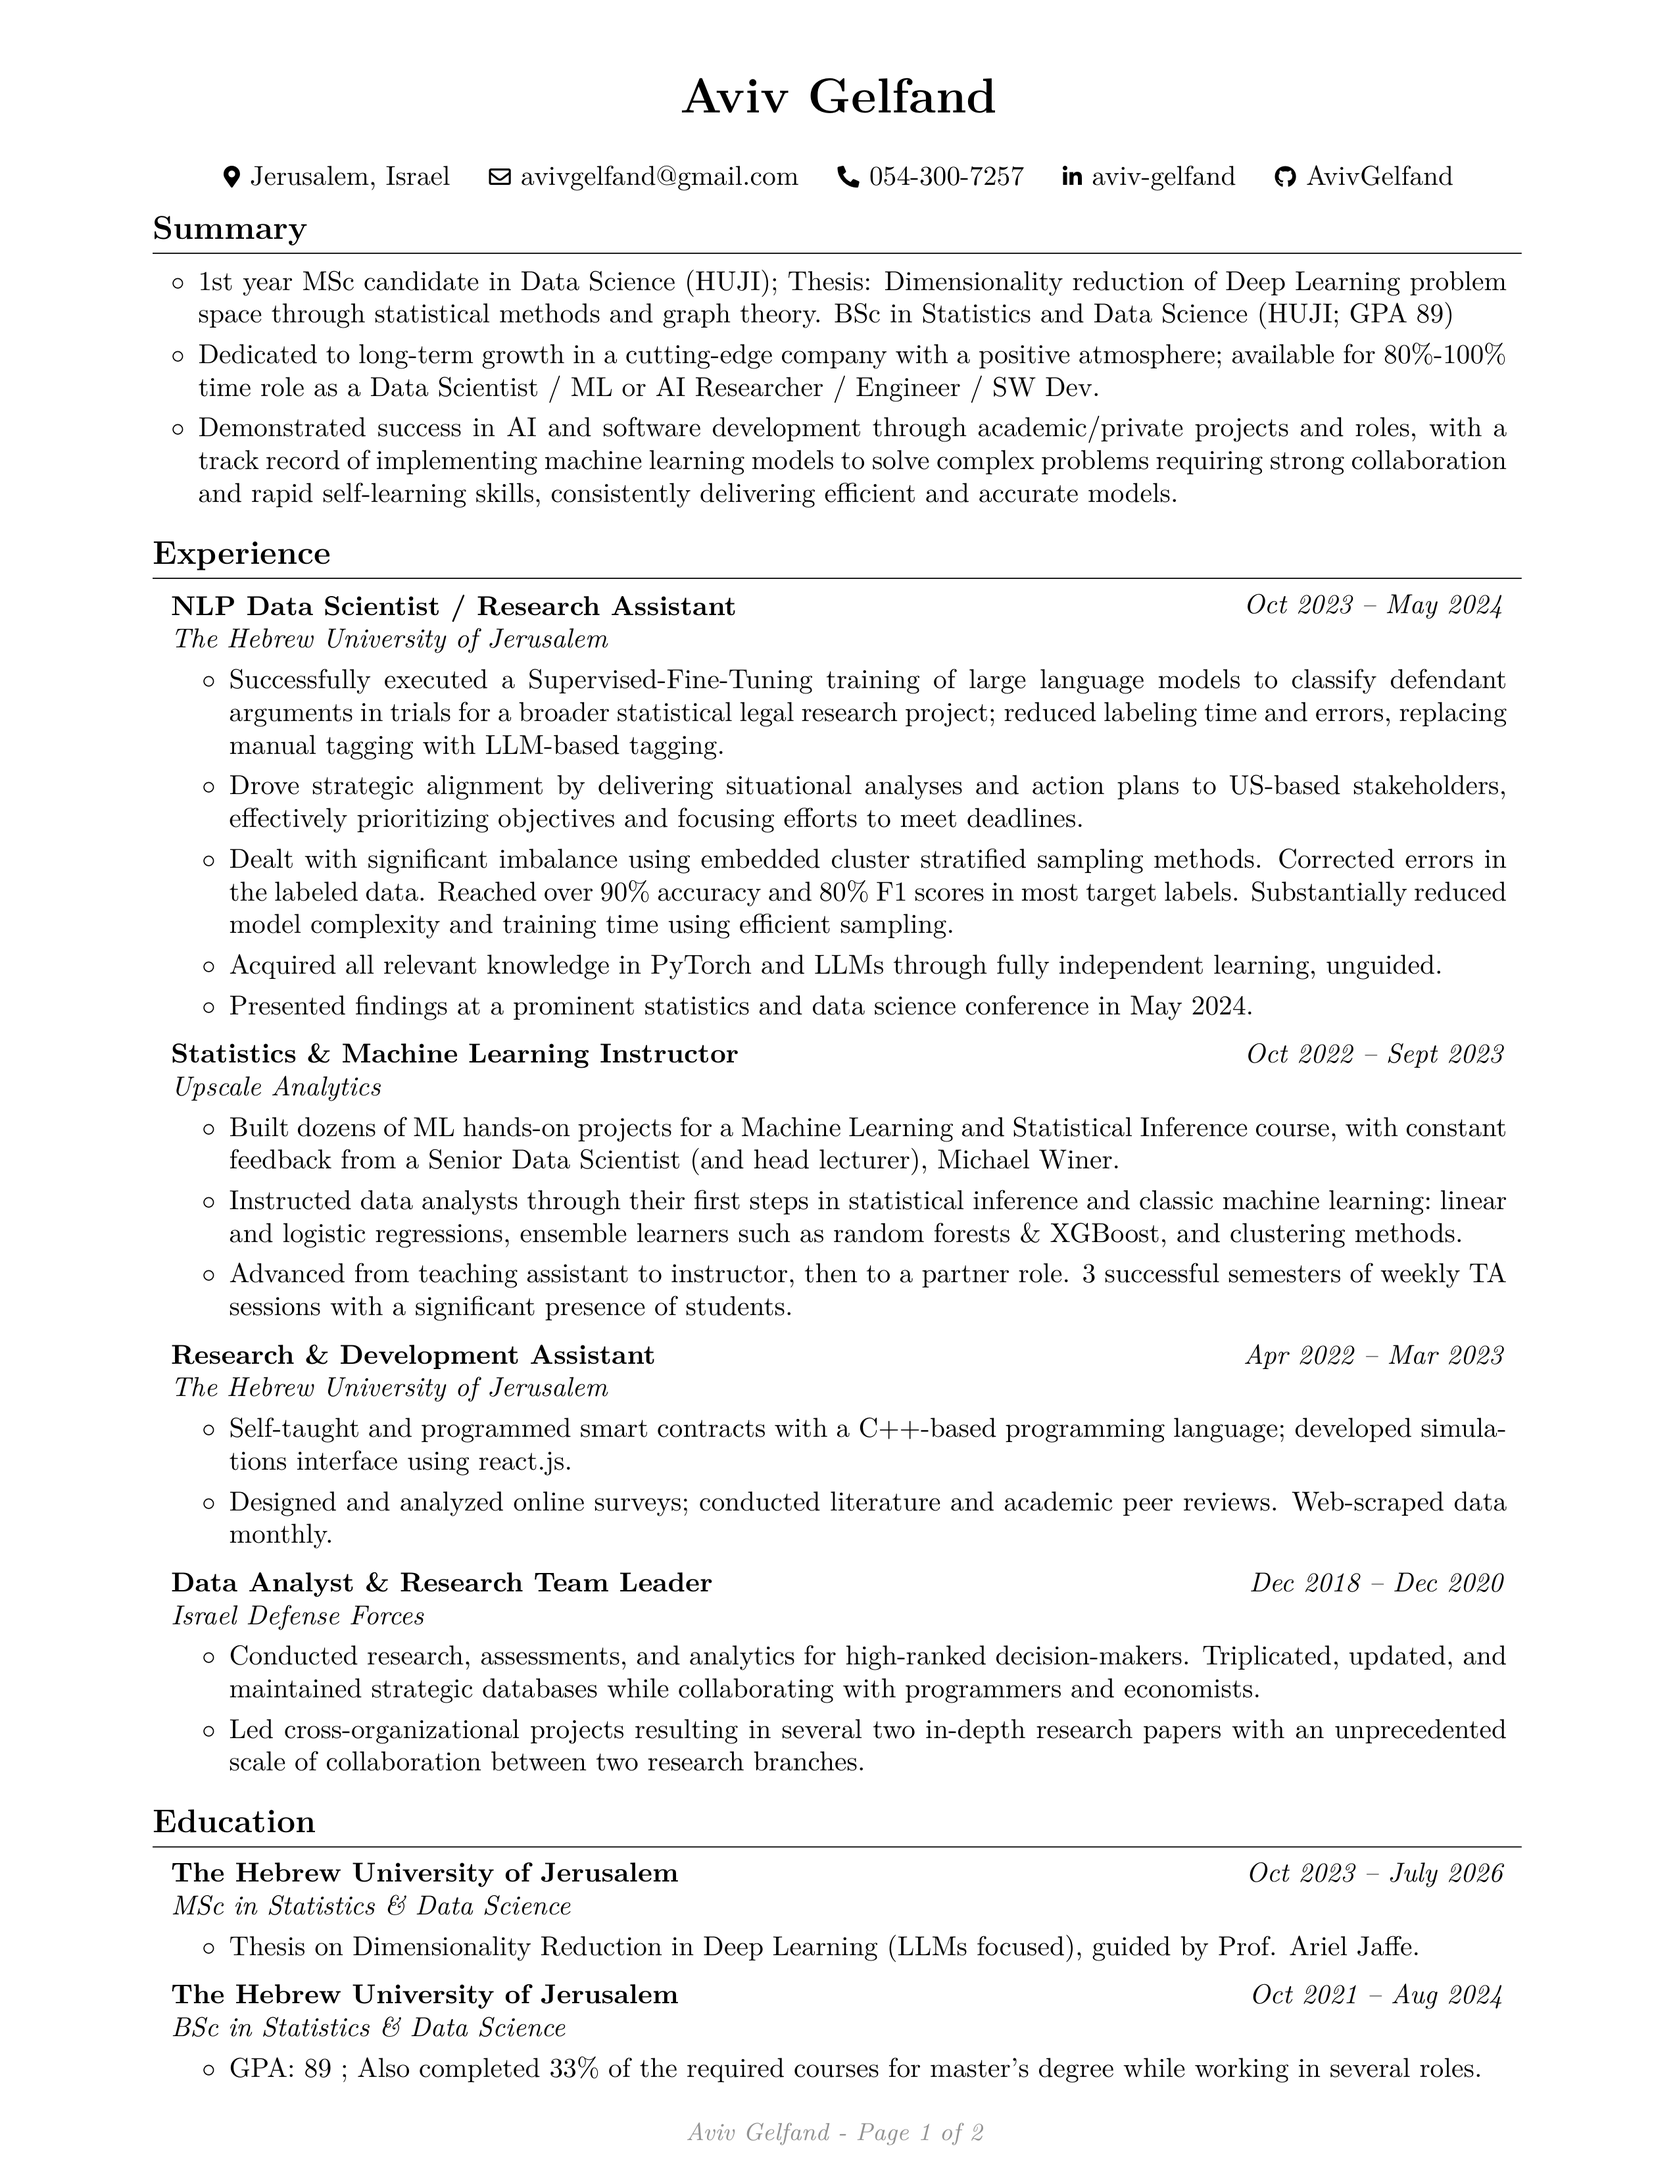
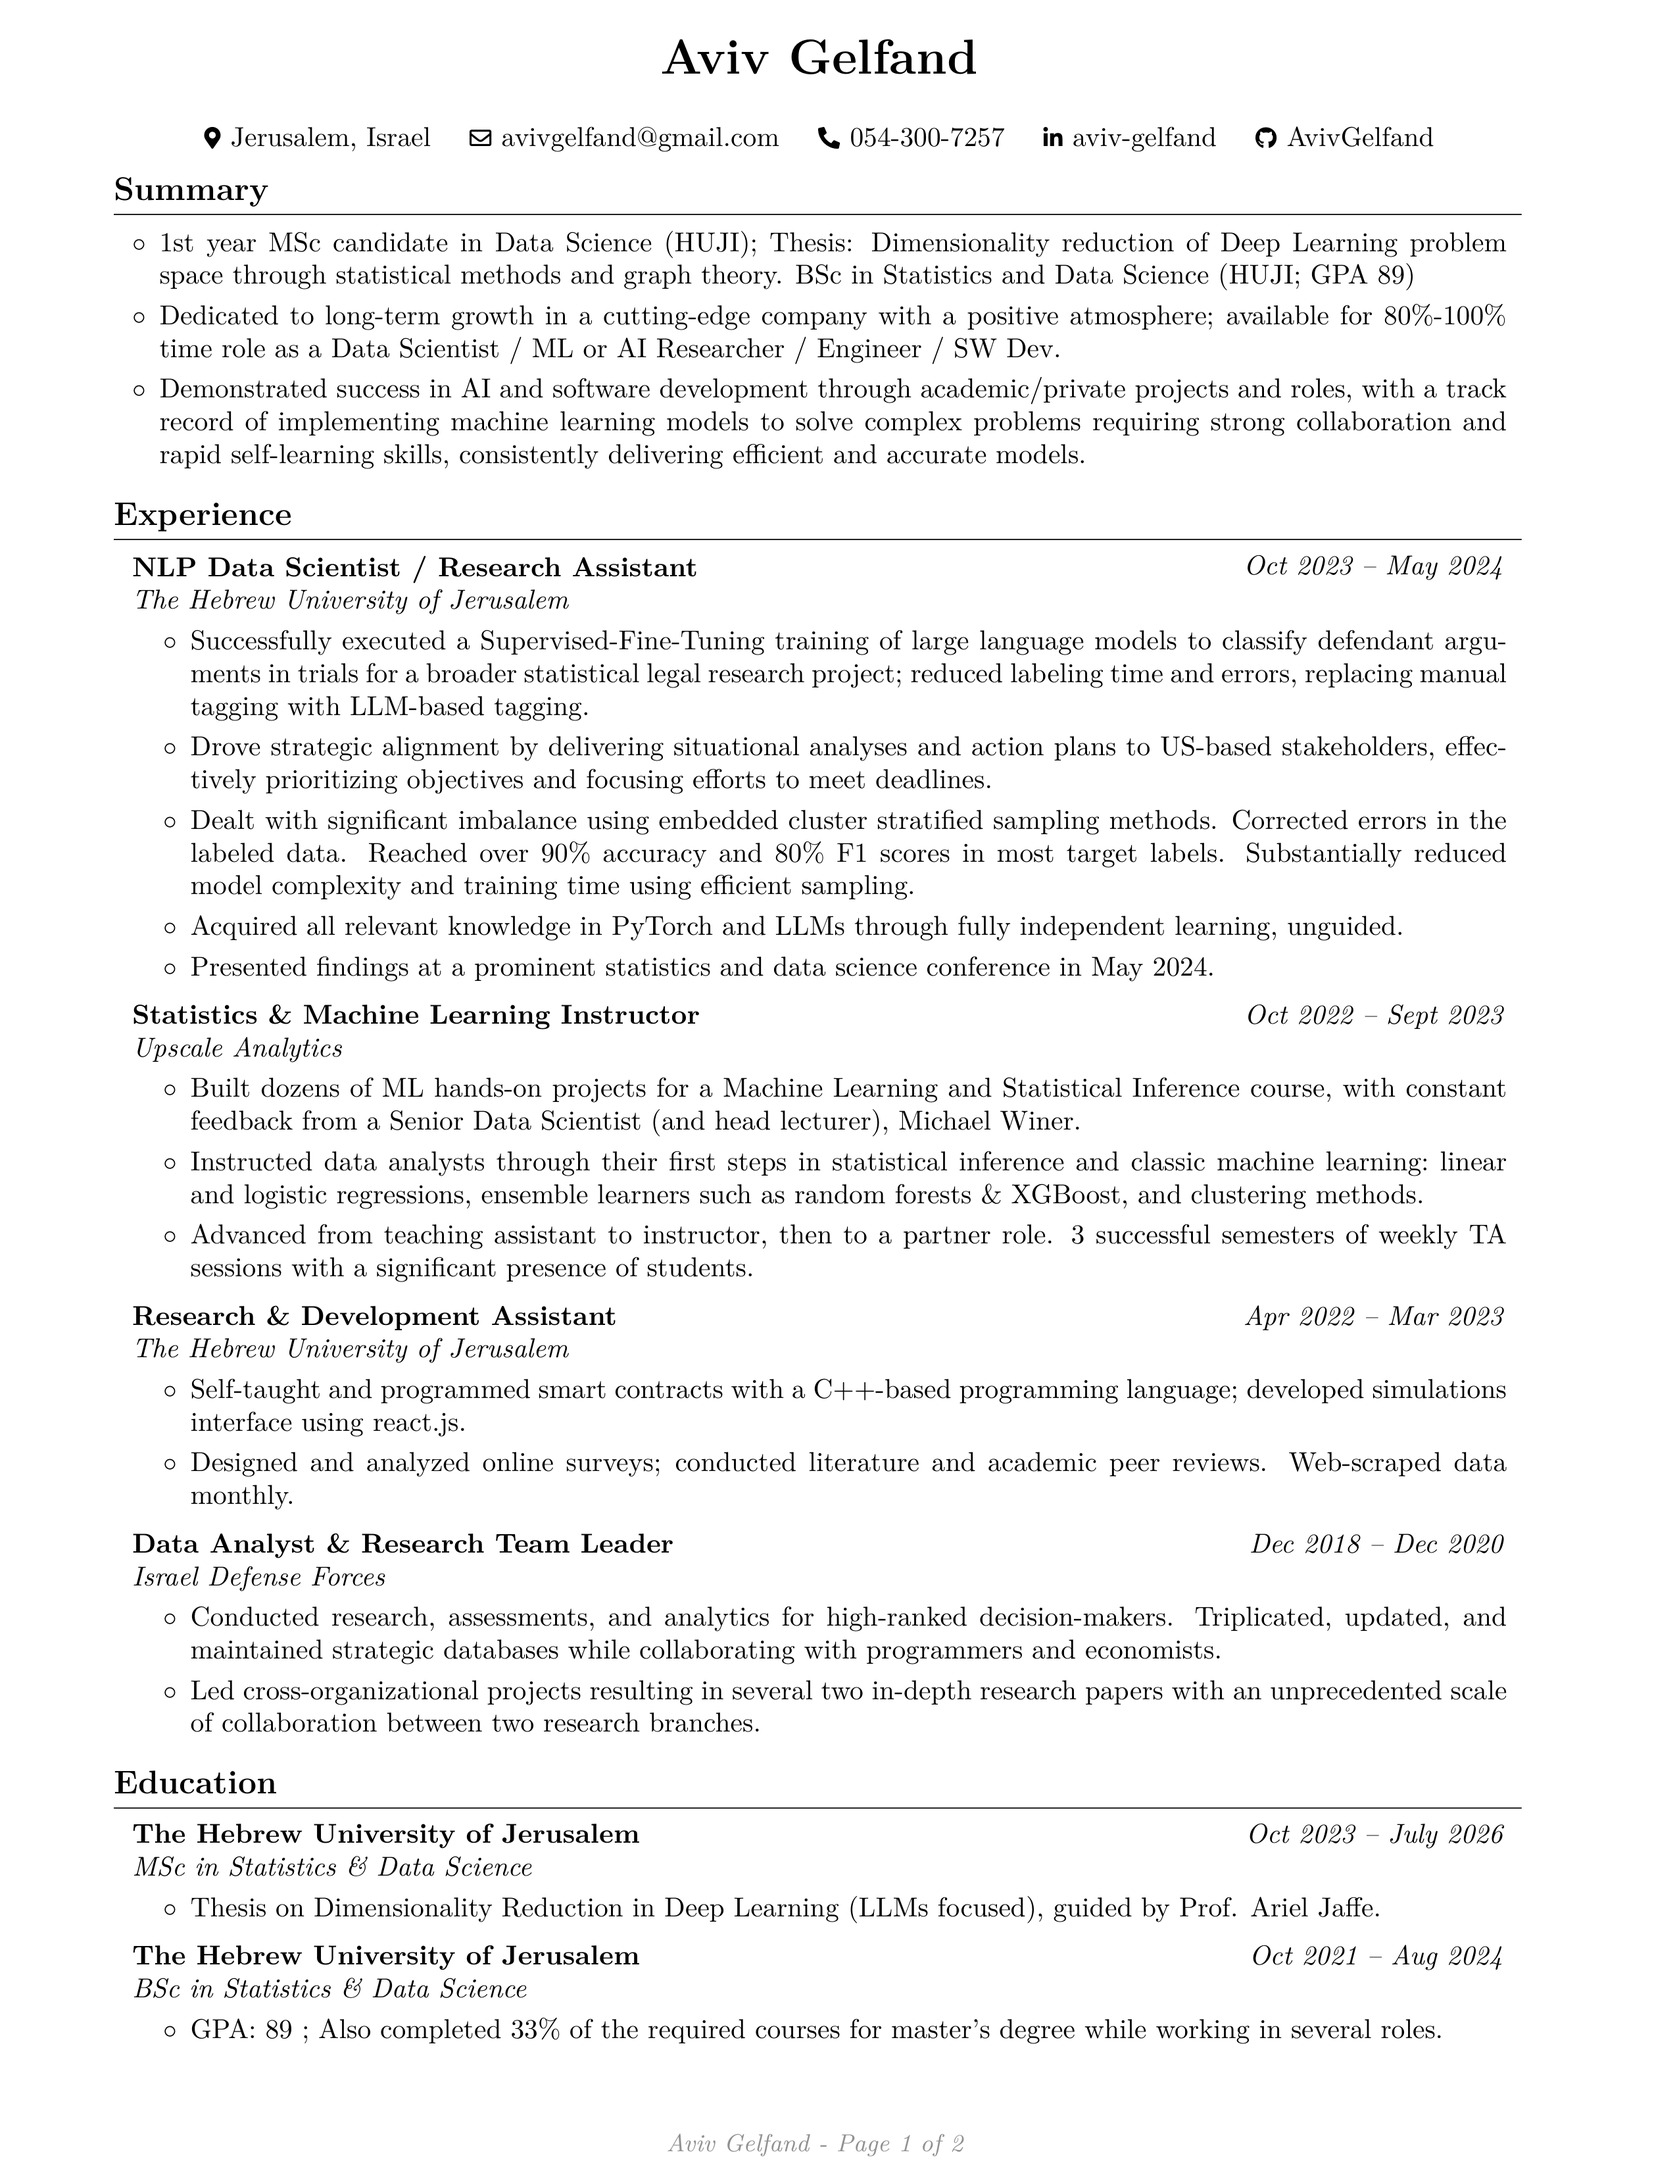
Render the latest CV

diff --git a/Aviv_Gelfand_CV.tex b/Aviv_Gelfand_CV.tex
@@ -3,11 +3,11 @@
 % Packages:
 \usepackage[
     ignoreheadfoot, % set margins without considering header and footer
-    top=1 cm, % seperation between body and page edge from the top
-    bottom=0.8 cm, % seperation between body and page edge from the bottom
-    left=2 cm, % seperation between body and page edge from the left
+    top=0.5 cm, % seperation between body and page edge from the top
+    bottom=0.5 cm, % seperation between body and page edge from the bottom
+    left=1.5 cm, % seperation between body and page edge from the left
     right=2 cm, % seperation between body and page edge from the right
-    footskip=0.4 cm, % seperation between body and footer
+    footskip=0.25 cm, % seperation between body and footer
     % showframe % for debugging 
 ]{geometry} % for adjusting page geometry
 \usepackage{titlesec} % for customizing section titles
@@ -131,7 +131,7 @@
   \AddToShipoutPictureFG*{% Add <stuff> to current page foreground
     \put(
         \LenToUnit{\paperwidth-2 cm-0.2 cm+0.05cm},
-        \LenToUnit{\paperheight-0.5 cm}
+        \LenToUnit{\paperheight-0.25 cm}
     ){\vtop{{\null}\makebox[0pt][c]{
         \small\color{gray}\textit{Last updated in September 2024}\hspace{\widthof{Last updated in September 2024}}
     }}}%
